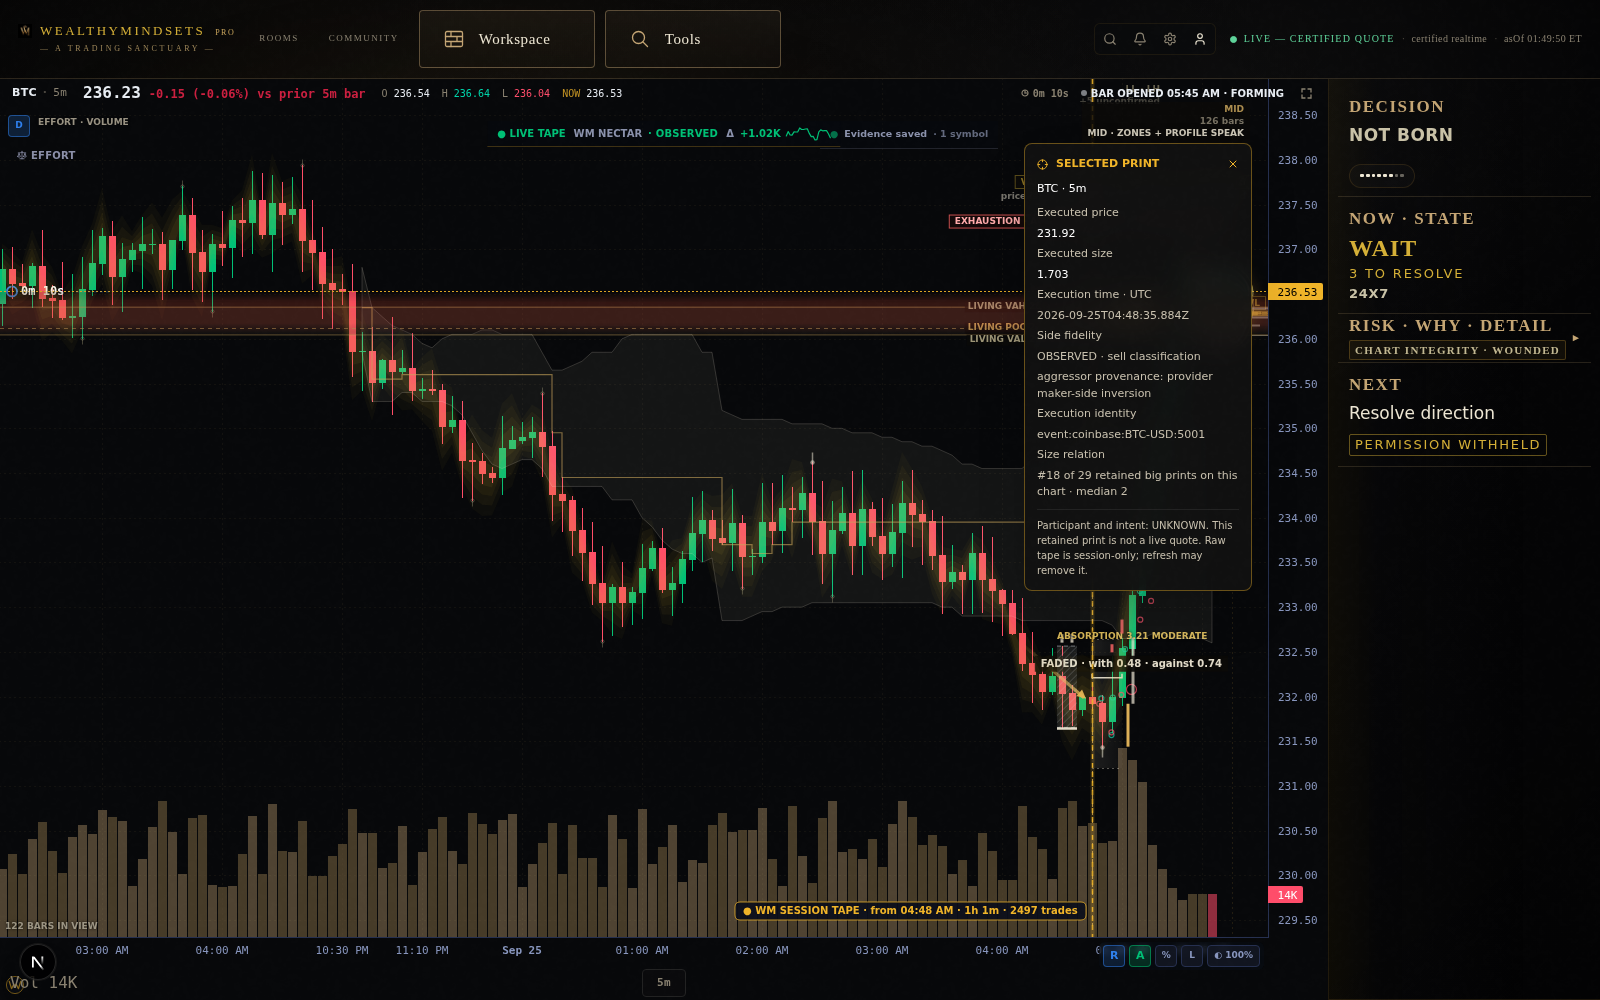
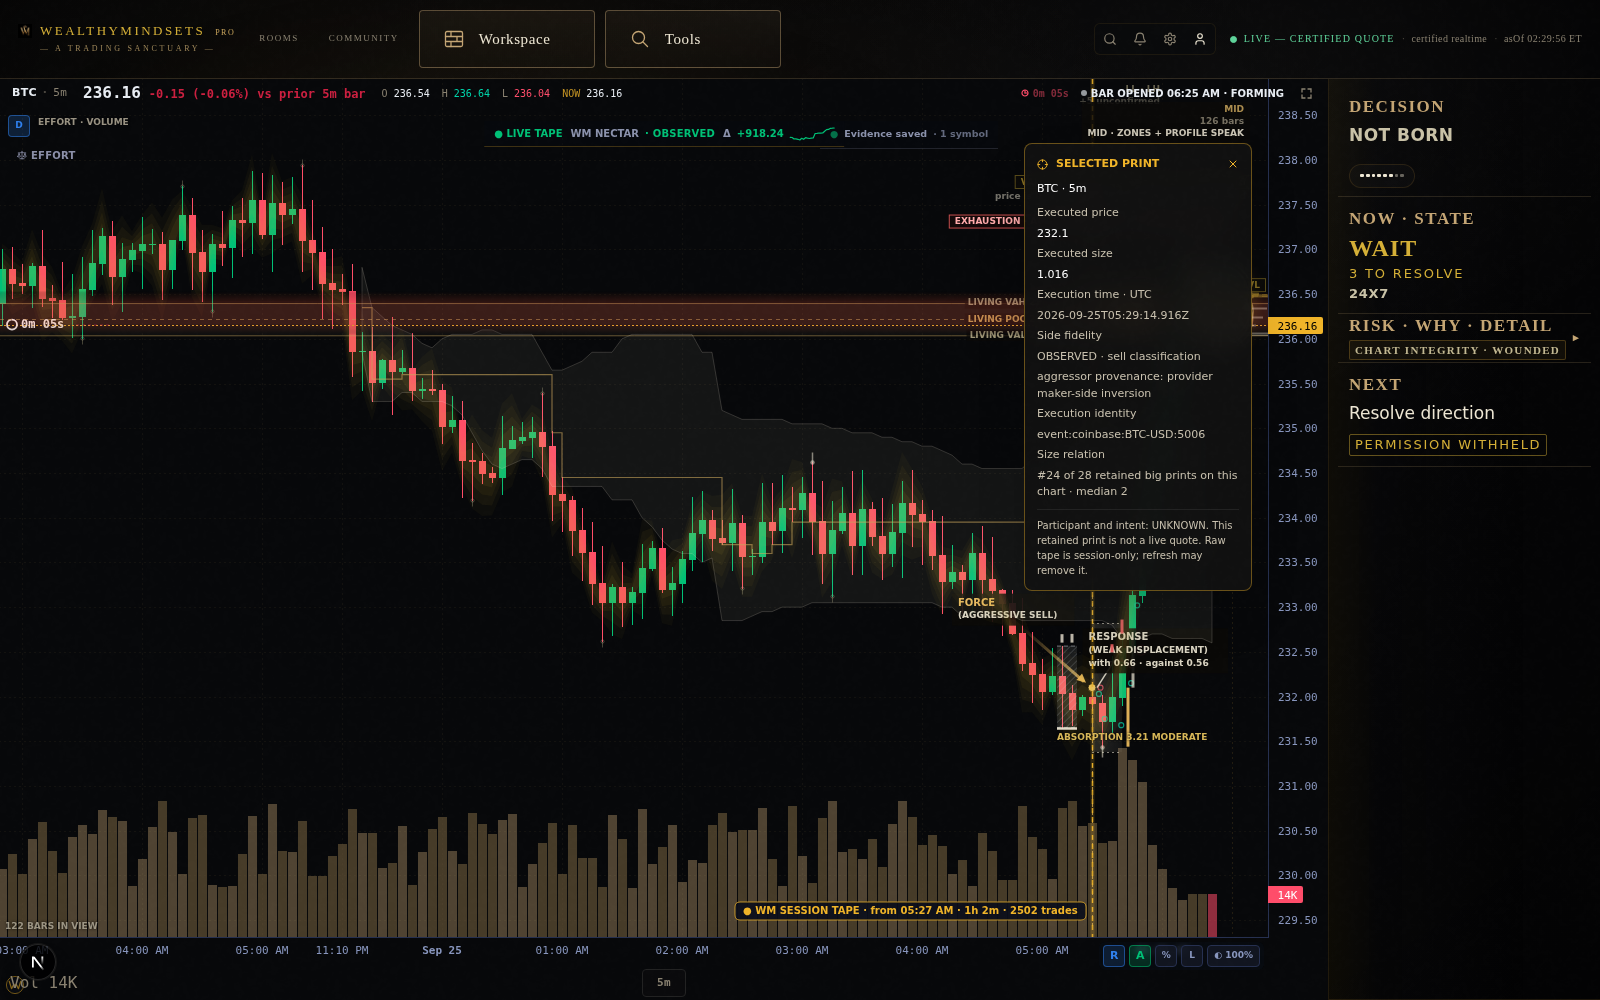
Garden 12 · Causal marks name themselves on the event (canon F04A)
The selected print's force → response now carries the plate's words:
EVENT (gold point on the print), FORCE (AGGRESSIVE BUY/SELL — the aggressor
side, nothing more), and RESPONSE — an arrow from the event to the last
response bar's own close, captioned FOLLOWED THROUGH / FADED · REVERSED /
WEAK DISPLACEMENT with the measured with/against numbers. Until three bars
exist the plate reads UNPAID EVIDENCE DEBT · n/3 on a leader, clear of the
Inspect ticket. Absorption chips now step around the frame obstacle list.
selectPrintResponse gains endClose (tested).
Proof: garden12/SIDE_F04A_causal_marks.png, SIDE_F04A_evidence_debt.png.

Claude-Session: https://claude.ai/code/session_01Gntm2WzCaW5uQMS2aMojoZ

diff --git a/src/components/chart/MainChart.tsx b/src/components/chart/MainChart.tsx
@@ -6952,6 +6952,36 @@ export function MainChart({ symbol, timeframe, setTimeframe, footprintType, foot
             // RESPONSE: a bracket over the response bars, with-force and
             // against-force excursions as two marks at the bracket's end.
             const xEnd = pr.endTime != null ? chart.timeScale().timeToCoordinate(pr.endTime as never) : null;
+            // CANON F04A — CAUSAL MARKS ON THE EVENT. Each part names itself:
+            // FORCE (who initiated), EVENT (the print), RESPONSE (what price
+            // did next, measured), and — until the bars exist — the plate
+            // UNPAID EVIDENCE DEBT instead of a guess.
+            const plate = (lines: string[], x: number, y: number, gold: boolean) => {
+              ctx.font = "700 10px ui-sans-serif, system-ui, sans-serif"; ctx.textAlign = "left"; ctx.textBaseline = "middle";
+              const tw = Math.max(...lines.map(l => ctx.measureText(l).width)) + 12, th = 6 + lines.length * 13;
+              const tx = Math.max(4, Math.min(W - 100 - tw, x)), ty = Math.max(96, y);
+              ctx.fillStyle = "rgba(11,10,8,0.92)"; ctx.fillRect(tx, ty, tw, th);
+              forceChips.push({ x: tx, y: ty, w: tw, h: th });
+              lines.forEach((l, i) => {
+                ctx.fillStyle = i === 0 && gold ? "rgba(232,184,92,1)" : "rgba(237,230,211,0.92)";
+                ctx.font = i === 0 ? "700 10px ui-sans-serif, system-ui, sans-serif" : "600 9px ui-sans-serif, system-ui, sans-serif";
+                ctx.fillText(l, tx + 6, ty + 9.5 + i * 13);
+              });
+            };
+            // EVENT: a gold point on the print.
+            ctx.beginPath(); ctx.arc(ex, ey, 4, 0, Math.PI * 2); ctx.fillStyle = "rgba(240,200,100,1)"; ctx.fill();
+            ctx.strokeStyle = "rgba(11,10,8,0.9)"; ctx.lineWidth = 1; ctx.stroke();
+            // FORCE caption at the arrow's tail.
+            plate(["FORCE", `(AGGRESSIVE ${up ? "BUY" : "SELL"})`], ax0 - 70, up ? ay0 + 4 : ay0 - 34, true);
+            if (pr.verdict === "PENDING") {
+              // A live-bar print sits at the right edge, under the Inspect
+              // ticket's column; the debt plate stands clear of it on a leader.
+              const px0 = ex > W - 560 ? W - 560 - 190 : ex - 190;
+              const py0 = up ? ey + 30 : ey - 50;
+              ctx.setLineDash([2, 3]); ctx.strokeStyle = "rgba(232,184,92,0.7)"; ctx.lineWidth = 1;
+              ctx.beginPath(); ctx.moveTo(px0 + 180, py0 + 16); ctx.lineTo(ex - 5, ey); ctx.stroke(); ctx.setLineDash([]);
+              plate(["UNPAID EVIDENCE DEBT", `${pr.responseBars}/3 response bars printed`], px0, py0, true);
+            }
             if (xEnd != null) {
               // EXPECTED ENVELOPE (ghost): ±1 median bar range around the
               // print, measured from the bars before it. A response that stays
@@ -6974,14 +7004,21 @@ export function MainChart({ symbol, timeframe, setTimeframe, footprintType, foot
               const yA = srs.priceToCoordinate(sp.priceLevel - pr.dir * pr.againstForce);
               if (yW != null) { ctx.strokeStyle = "rgba(232,184,92,0.95)"; ctx.lineWidth = 3; ctx.beginPath(); ctx.moveTo(+xEnd + 6, ey); ctx.lineTo(+xEnd + 6, +yW); ctx.stroke(); }
               if (yA != null) { ctx.strokeStyle = "rgba(237,230,211,0.7)"; ctx.lineWidth = 3; ctx.beginPath(); ctx.moveTo(+xEnd + 11, ey); ctx.lineTo(+xEnd + 11, +yA); ctx.stroke(); }
-              const txt = `${pr.verdict === "PENDING" ? `PENDING ${pr.responseBars}/3` : pr.verdict} · with ${pr.withForce.toFixed(2)} · against ${pr.againstForce.toFixed(2)}`;
-              ctx.font = "700 10px ui-sans-serif, system-ui, sans-serif"; ctx.textAlign = "left"; ctx.textBaseline = "middle";
-              const tw = ctx.measureText(txt).width + 12;
-              const tx = Math.min(W - 100 - tw, ex), ty = up ? by + 6 : by - 22;
-              ctx.fillStyle = "rgba(11,10,8,0.92)"; ctx.fillRect(tx, ty, tw, 16);
-              forceChips.push({ x: tx, y: ty, w: tw, h: 16 });
-              ctx.fillStyle = pr.verdict === "FOLLOWED" ? "rgba(232,184,92,1)" : "rgba(237,230,211,0.95)";
-              ctx.fillText(txt, tx + 6, ty + 8.5);
+              if (pr.verdict !== "PENDING" && pr.endClose != null) {
+                // RESPONSE: a thinner arrow from the event to where price closed.
+                const yEc = srs.priceToCoordinate(pr.endClose);
+                if (yEc != null) {
+                  const rx = +xEnd, ry = +yEc;
+                  ctx.strokeStyle = "rgba(237,230,211,0.85)"; ctx.lineWidth = 1.5;
+                  ctx.beginPath(); ctx.moveTo(ex + 5, ey); ctx.lineTo(rx, ry); ctx.stroke();
+                  const ra = Math.atan2(ry - ey, rx - (ex + 5));
+                  ctx.fillStyle = "rgba(237,230,211,0.85)"; ctx.beginPath(); ctx.moveTo(rx, ry);
+                  ctx.lineTo(rx - 8 * Math.cos(ra - 0.5), ry - 8 * Math.sin(ra - 0.5));
+                  ctx.lineTo(rx - 8 * Math.cos(ra + 0.5), ry - 8 * Math.sin(ra + 0.5)); ctx.closePath(); ctx.fill();
+                  const word = pr.verdict === "FOLLOWED" ? "(FOLLOWED THROUGH)" : pr.verdict === "FADED" ? "(FADED · REVERSED)" : "(WEAK DISPLACEMENT)";
+                  plate(["RESPONSE", word, `with ${pr.withForce.toFixed(2)} · against ${pr.againstForce.toFixed(2)}`], rx + 16, ry - 20, pr.verdict === "FOLLOWED");
+                }
+              }
             }
             ctx.restore();
           }
@@ -8267,7 +8304,7 @@ export function MainChart({ symbol, timeframe, setTimeframe, footprintType, foot
               // the shelf, then below it, then stepped further up; if every
               // slot is taken the shelf still paints and only its words wait
               // (Inspect on the shelf still reads it).
-              const hit = (y: number) => absorbChipRects.some(r =>
+              const hit = (y: number) => [...absorbChipRects, ...floatingChips].some(r =>
                 chipX < r.x + r.w + 4 && chipX + chipW + 4 > r.x && y < r.y + r.h + 1 && y + chipH + 1 > r.y);
               const slots = [yHi - chipH - 2, yLo + 2, yHi - 2 * chipH - 4, yLo + chipH + 4, yHi - 3 * chipH - 6];
               const freeY = slots.map(y => Math.max(2, y)).find(y => !hit(y));

diff --git a/src/lib/marketData/viewModels/selectPrintResponse.ts b/src/lib/marketData/viewModels/selectPrintResponse.ts
@@ -35,6 +35,8 @@ export interface PrintResponseVM {
   readonly againstForce: number;
   readonly medianRange: number;
   readonly endTime: number | null;
+  /** Close of the last response bar — where the RESPONSE arrow lands. */
+  readonly endClose: number | null;
   readonly verdict: "FOLLOWED" | "FADED" | "MUTED" | "PENDING";
 }
 
@@ -42,7 +44,7 @@ export function selectPrintResponse(force: PrintForce | null | undefined, input:
   const dir: 1 | -1 = force?.side === "sell" ? -1 : 1;
   const none = (reason: PrintResponseVM["reason"]): PrintResponseVM => ({
     version: PRINT_RESPONSE_VERSION, drawn: false, reason, eventBarTime: null, dir, responseBars: 0,
-    withForce: 0, againstForce: 0, medianRange: 0, endTime: null, verdict: "PENDING",
+    withForce: 0, againstForce: 0, medianRange: 0, endTime: null, endClose: null, verdict: "PENDING",
   });
   const bars = (input ?? []).filter(b => [b.time, b.high, b.low, b.close].every(Number.isFinite) && b.high >= b.low);
   if (!force || bars.length === 0) return none("NO_BARS");
@@ -66,7 +68,8 @@ export function selectPrintResponse(force: PrintForce | null | undefined, input:
   return {
     version: PRINT_RESPONSE_VERSION, drawn: true, reason: "DRAWN", eventBarTime: bars[idx].time, dir,
     responseBars: after.length, withForce: withF, againstForce: against, medianRange: med,
-    endTime: after.length ? after[after.length - 1].time : null, verdict,
+    endTime: after.length ? after[after.length - 1].time : null,
+    endClose: after.length ? after[after.length - 1].close : null, verdict,
   };
 }
 

diff --git a/src/lib/marketData/viewModels/selectPrintResponse.test.ts b/src/lib/marketData/viewModels/selectPrintResponse.test.ts
@@ -12,6 +12,8 @@ describe("force → response on the same print", () => {
     expect(v.withForce).toBe(2);
     expect(v.againstForce).toBe(0);
     expect(v.responseBars).toBe(RESPONSE_BARS);
+    // The RESPONSE arrow lands on the last response bar's own close.
+    expect(v.endClose).toBe(102.5);
   });
   it("a buy print that price leaves downward reads FADED", () => {
     const bars = [...flat, bar(10, 99.5, 100.8), bar(11, 99, 100), bar(12, 98.6, 99.5)];
